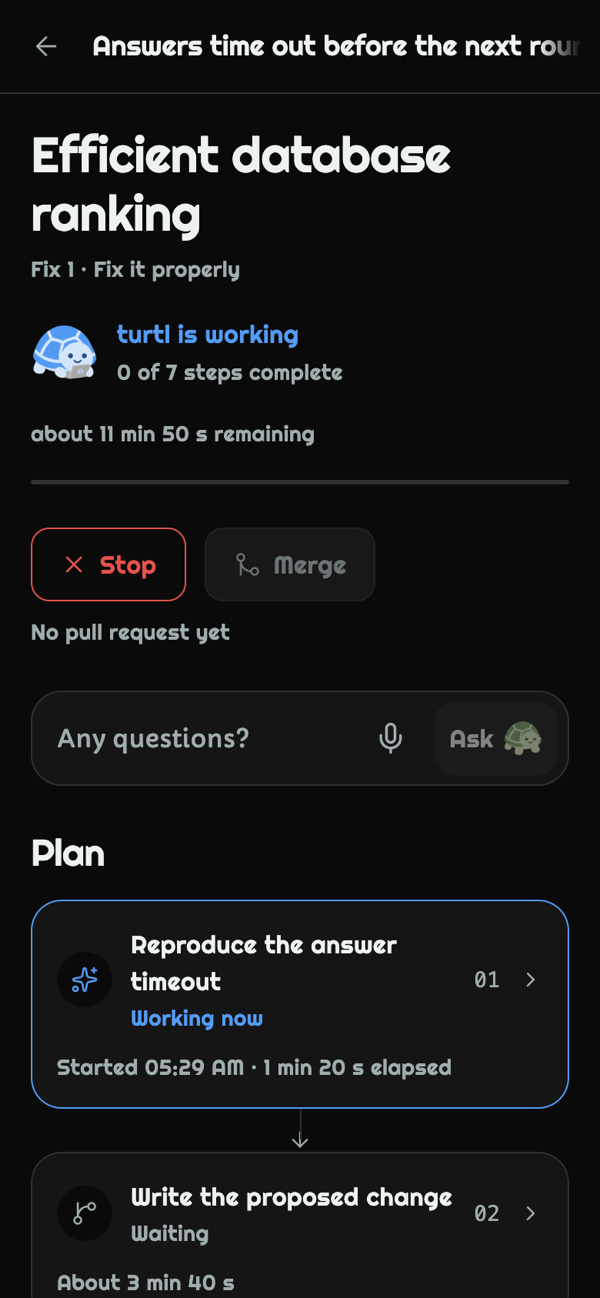
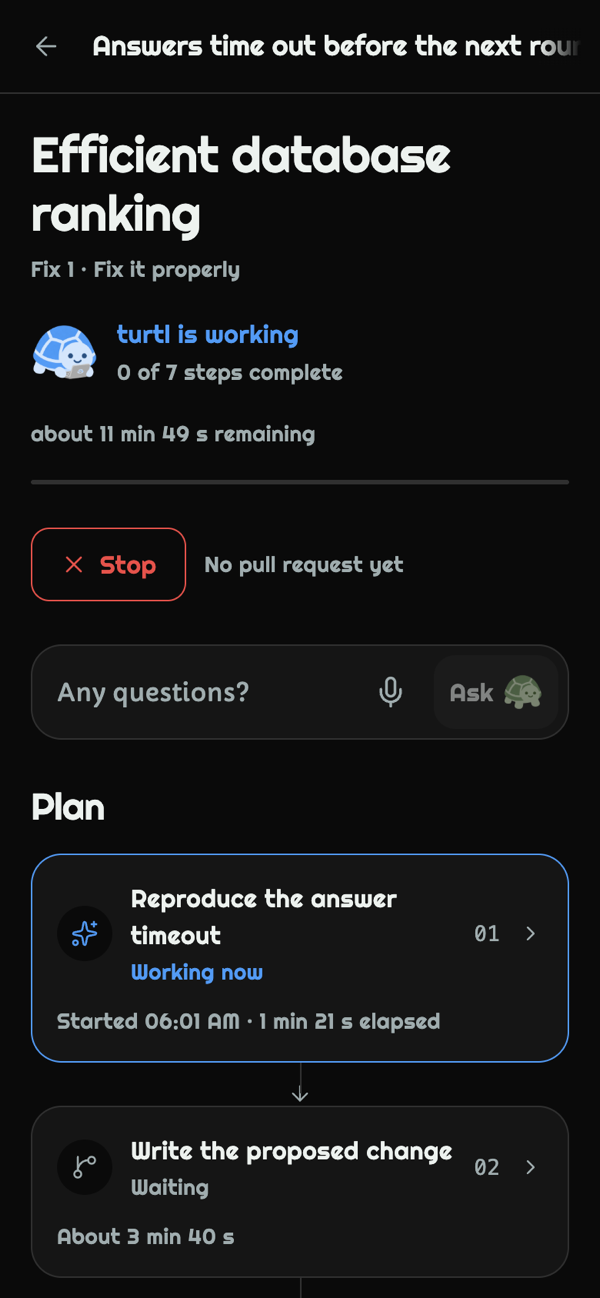
Bring the README to the end of wave 3, and recapture the running-fix screen
The closed demo now stops everything, not only calls: the README says what
stops and that it lasts until AUTH_REQUIRED=true. It also adds the reset link
that carries only the code (with the address kept on the phone for 24 hours),
the checks panel's warning and the empty Fix list's reason, Stop and Merge
shown only when they can act, the theme kept across launches, and the web
export's security headers. The plan screenshot showed a Merge button before
any pull request existed, which the screen no longer does; it is recaptured
from the example build of 56105ee.

diff --git a/README.md b/README.md
@@ -20,7 +20,7 @@
 <p align="center">
   <img src="docs/screenshots/case.png" width="24%" alt="An opened issue headed by its own name, with the Overview, Logs and Code tabs">
   <img src="docs/screenshots/fixes.png" width="24%" alt="The Fixes page: the recommended fix with Approve, what it changes and why">
-  <img src="docs/screenshots/plan.png" width="24%" alt="An approved fix with Stop, Merge and its plan, step by step">
+  <img src="docs/screenshots/plan.png" width="24%" alt="An approved fix under way: Stop, No pull request yet, and its plan step by step">
 </p>
 <p align="center"><sub>Login → Projects → a project → its issues → an opened issue → its fixes → the plan of an approved fix.</sub></p>
 <p align="center">
@@ -28,7 +28,7 @@
   <img src="docs/screenshots/practice-project.png" width="24%" alt="The practice booking app's project: a Practice chip, its check passing, Fix, Features and Break it">
   <img src="docs/screenshots/confirm-email.png" width="24%" alt="Check your email: a box for the code, Send the email again, Start again and Sign out">
 </p>
-<p align="center"><sub>Try a practice app → the practice project → Check your email, which a new password account sees until it confirms its address. All captured from an Expo web build of <code>build/wave-3</code> (9c2d407) on its built-in example data, at 390 × 844. The first-run screen, which also offers Try a practice app, shows only for an account with no projects, which the example data does not have.</sub></p>
+<p align="center"><sub>Try a practice app → the practice project → Check your email, which a new password account sees until it confirms its address. All captured from an Expo web build of <code>build/wave-3</code> on its built-in example data, at 390 × 844 (the plan at 56105ee, the others at 9c2d407). The first-run screen, which also offers Try a practice app, shows only for an account with no projects, which the example data does not have.</sub></p>
 
 turtl tracks each case (an outage, a bug report or a feature request) as a series of steps, from detecting a problem to learning from it. It watches the journeys you register, takes in what your customers report, works out what went wrong, explains it in plain words, and offers you one to four fixes. Nothing changes in your live app until you approve, or until a narrow permission you granted covers it. `turtl` is the working name; the build log is in [hackathon.md](hackathon.md).
 
@@ -48,7 +48,7 @@ The same code runs in two modes, chosen by one deployment variable, `AUTH_REQUIR
 | Deleting | Nothing to delete | The owner deletes their account in the app: its projects and data, its copies at Supermemory, its GitHub link and its Apple token go ([`convex/account/`](convex/account/README.md)) |
 | Dev tools | Available with `DEV_TOOLS_ENABLED=true` | Closed, whatever the variable says |
 
-Any value of `AUTH_REQUIRED` but unset, empty or `false` turns accounts on. The demo makes no accounts, and a deployment that holds any account refuses to run as the demo: every call answers "turtl is unavailable right now" and the backend log says `AUTH_REQUIRED` is missing on a deployment with accounts. A store build (`EXPO_PUBLIC_APP_ENV` set to `preview` or `production`) refuses a backend without accounts. See [`release/README.md`](release/README.md).
+Any value of `AUTH_REQUIRED` but unset, empty or `false` turns accounts on. The demo makes no accounts, and a deployment that holds any sign-in, user, or project of another owner refuses to run as the demo: every call answers "turtl is unavailable right now", and nothing is checked, sent or run (the monitor, customer reports, AI services, GitHub, owners' apps, case steps and notifications all stop) until `AUTH_REQUIRED=true` is set again. The backend log says why, at most once a day. A store build (`EXPO_PUBLIC_APP_ENV` set to `preview` or `production`) refuses a backend without accounts. See [`release/README.md`](release/README.md).
 
 ## How a case moves
 
@@ -90,15 +90,15 @@ A case's status follows its steps: `open`, `investigating`, `waiting_for_owner`,
 
 **In the app**
 
-- **Login** offers Log in, Apple, GitHub and Sign up, with the privacy policy, terms and support links. With accounts on (or in a store build) they sign in for real; in the demo they open Projects. After a password sign-up the app shows **Check your email** until the code turtl emailed is entered: tap the `turtl://` link in the email, or paste the code. Gmail is known to drop `turtl://` links, so its users paste the code; and another app on the phone that claims `turtl://` could receive a link's code, which only universal links on a domain the operator controls would prevent.
+- **Login** offers Log in, Apple, GitHub and Sign up, with the privacy policy, terms and support links. With accounts on (or in a store build) they sign in for real; in the demo they open Projects. After a password sign-up the app shows **Check your email** until the code turtl emailed is entered: tap the `turtl://` link in the email, or paste the code. **Forgot your password?** emails a reset code the same way; the link carries only the code, and the reset screen uses the address this phone last asked to reset (kept on the device for 24 hours) or the one typed, and says whose account is about to change. Gmail is known to drop `turtl://` links, so its users paste the code; and another app on the phone that claims `turtl://` could receive a link's code, which only universal links on a domain the operator controls would prevent.
 - **Projects** puts the projects that need you first and shows each one's health as a turtle, its open bugs and feature requests, and how many fixes wait for approval. An account with no projects sees a first-run screen with **Add your first project** and **Try a practice app**; **Add project** takes a GitHub repository (with Connect GitHub when the backend has the GitHub App) and, optionally, the live app's address, then reads the repository and reports what turtl can watch.
-- **A project** opens to Fix, Features (customer requests, with how many people asked) and Investigate (a map of the project's code you can ask questions about). A project with nothing open shows what turtl is watching and when each check last passed.
+- **A project** opens to Fix, Features (customer requests, with how many people asked) and Investigate (a map of the project's code you can ask questions about). A project with nothing open shows what turtl is watching and when each check last passed; while a check is failing its panel shows a warning, and an empty Fix list says why no issue is open yet.
 - **A practice project** carries a Practice chip, and in place of Investigate offers a way to break its app on purpose: a sheet says what will happen, turtl's ordinary watching opens a case, and the ordinary flow fixes it. It has no repository and never calls GitHub or a coding agent.
 - **The issues list** shows compact rows (state turtle, title, date); swiping up begins the review of the first one.
 - **An opened issue** is headed by its own name and has Overview, Logs and Code tabs. Claims link inline to the evidence they rest on, and the Overview shows screenshots from the app. **Fixes** is its own page, reached by swiping past the end of the issue or with "Look at potential fixes", recommended first.
-- **Approving** always goes through one confirmation that shows the full instructions a coding agent will receive. The fix then gets its own screen with the pull request, its checks, Stop, Merge and the plan step by step with timings.
+- **Approving** always goes through one confirmation that shows the full instructions a coding agent will receive. The fix then gets its own screen with the pull request, its checks and the plan step by step with timings. Stop shows only while the fix is under way, and Merge only for a pull-request fix once its pull request exists.
 - **Investigate further** is a chat about the case that answers from what turtl recorded and can add another fix. **Talk** asks the same chat out loud; a spoken "approve" or "merge" is answered with where the button is and never acts.
-- **Settings** (the gear on a project): who approves that project's fixes (You, or Auto under a scoped permission), Dark or Light, and the owner's preferences. On a live backend it also shows the rows that apply there: the project's customer report keys and GitHub; with accounts on, the project's control token, notifications, the AI permission, the coding agent, and Sign out and Delete account (also in the account sheet behind Home's profile picture); in the demo, the owner passcode.
+- **Settings** (the gear on a project): who approves that project's fixes (You, or Auto under a scoped permission), Dark or Light (kept on the device across launches), and the owner's preferences. On a live backend it also shows the rows that apply there: the project's customer report keys and GitHub; with accounts on, the project's control token, notifications, the AI permission, the coding agent, and Sign out and Delete account (also in the account sheet behind Home's profile picture); in the demo, the owner passcode.
 - **Example data** with four projects runs every project screen without a backend, and opens no backend connection. Add project offers the practice app there too; it lives in memory and nothing leaves the device.
 - **Type:** short labels, titles, names and counts are set in Righteous and full sentences in Capriola; the text component decides from the words it draws ([`components/ui/typeface.ts`](components/ui/typeface.ts)).
 
@@ -112,7 +112,7 @@ A case's status follows its steps: `open`, `investigating`, `waiting_for_owner`,
 - **Recovery memory** in Convex, indexed in Supermemory: recall only proposes, and the remembered fix still needs approval and fresh verification.
 - **Scoped permission**: after two verified recoveries, the owner can let turtl run one pinned action on its own, bound to the app's revision, at most three times. A run that does not restore service revokes it.
 - **Onboarding**: reads a connected repository, judges what turtl can watch, and, once the owner approves, asks the coding agent for a pull request that adds a `turtl.json` manifest and tests.
-- **Code network**: maps a GitHub repository into parts and groups, keeps the code in Supermemory with secrets masked first, and answers questions about the whole map, a group or one part.
+- **Code network**: maps a GitHub repository into parts and groups, keeps the code in Supermemory with secret files left out and secrets masked first, and answers questions about the whole map, a group or one part.
 - **Voice turns**: OpenAI speech to text and text to speech; audio is never stored.
 - **Accounts mode** as in the table above: confirmed sign-up, the access rule (every public function is made with the builders in [`convex/functions.ts`](convex/functions.ts), which check it), the AI permission and spend limits, the GitHub App, push, sealed secrets, the practice project, and account deletion.
 - **A demo app to protect**: a booking backend on the same deployment ([`convex/bookingDemo/`](convex/bookingDemo/README.md)) and its customer app ([`protected-app/`](protected-app/README.md)), with staged failures turtl can detect and recover from.
@@ -142,7 +142,7 @@ A new deployment is the single-owner demo. To protect the booking demo end to en
 
 ## The web demo
 
-The screens also run in a browser, from Expo's web export. [`vercel.json`](vercel.json) tells Vercel how to build it: `npm ci`, then `npx expo export --platform web` into `dist/`, with every path answered by the single page. With no backend address in the build's environment, it shows the built-in example data and opens no backend connection, so a deployment made from the repository alone is a safe demo that calls no backend.
+The screens also run in a browser, from Expo's web export. [`vercel.json`](vercel.json) tells Vercel how to build it: `npm ci`, then `npx expo export --platform web` into `dist/`, with every path answered by the single page, and basic security headers: no content sniffing, no framing by other sites, a referrer limited to the origin across sites, and no camera or location (the microphone stays allowed for Talk). With no backend address in the build's environment, it shows the built-in example data and opens no backend connection, so a deployment made from the repository alone is a safe demo that calls no backend.
 
 ## Configuration
 
